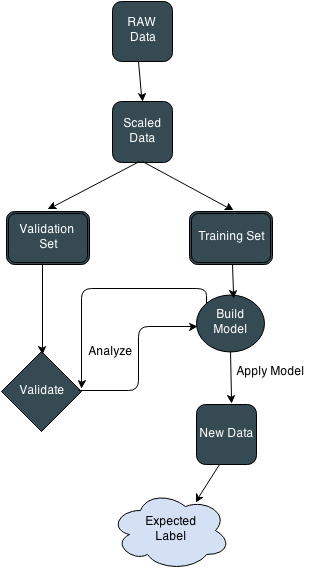
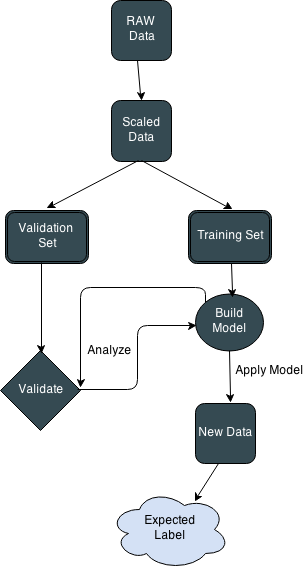
Slight tweak of the layout. 2 weird spacing spots remain. This is caused by figures with the [H] command. This states that figures are supposed to be placed exactly at that location in the text. This can disrupt Latex normal spacing.

Changed region(s): [[0.0, 0.0, 1.0, 1.0]]

diff --git a/Sections/5.supervised-learning.tex b/Sections/5.supervised-learning.tex
@@ -1,14 +1,16 @@
 Machine learning corresponds to the study and construction of systems that can learn from data. These systems can be useful when typical rule based programs that follow explicit instructions do not give good performance. Their ability to learn makes them popular in the field of artificial intelligence and pattern recognition. Machine learning can take several forms. In this paper, we look specifically at classifiers within the field of supervised learning. In supervised learning the system is trained or `taught' using input data that is known to belong to a certain class.\\ 
 %A mapping between the inputs and outputs is inferred from the training data which can be used to classify unseen data. \cite{cord2008machine}
 
-For the purpose of understanding how supervised learning works, consider a supervised learning model that is shown in fig \ref{fig:SL}. The first step is to normalize raw data and prepare data for the training set and validation set. Next data is randomly allocated to these two sets (usually $60$\% for the training set and the rest for validation set). The training set is used by classifier to learn how to classify the data. The training data will be fed to the algorithm in order to learn from training data so that it can train or build a model that can predict unseen data. When the model is built, it is validated using the validation set. It is important in this stage to use data that are not used by the model before, which is why in the second step of figure \ref{fig:SL} the data is split into two. If the validation results in an error rate larger than the desired error, the model is tweaked and we adjust the parameters. Since the built model has already seen the training data, and has memorized the answer, is not trustworthy anymore. If we continue training on that data, the model will try to memorize the classes of the data points specifically instead of learning to classify a type of data. This will make generalization property of the model become progressively worse and is known as over fitting or over training \cite{hawkins2004problem} problem in machine learning. However, depending on the type of a classifier, there are techniques to avoid over fitting. For example a method \cite{Piotrowski201397} has been proposed to solve over fitting in neural network training. Once a model shows consistency, it can be used to predict and label unknown data. \\  
- 
 \begin{figure}[H]
 \centering
-    \includegraphics[width=38mm,scale=0.3]{./img/SL.png}
+    \includegraphics[width=38mm,scale=0.1]{./img/SL.png}
     \caption{\footnotesize{An overview of Supervised learning model that divides scaled data into two sets in order to build a model and predict unseen data }}
     \label{fig:SL}
 \end{figure}
+
+For the purpose of understanding how supervised learning works, consider a supervised learning model that is shown in fig \ref{fig:SL}. The first step is to normalize raw data and prepare data for the training set and validation set. Next data is randomly allocated to these two sets (usually $60$\% for the training set and the rest for validation set). The training set is used by classifier to learn how to classify the data. The training data will be fed to the algorithm in order to learn from training data so that it can train or build a model that can predict unseen data. When the model is built, it is validated using the validation set. It is important in this stage to use data that are not used by the model before, which is why in the second step of figure \ref{fig:SL} the data is split into two. If the validation results in an error rate larger than the desired error, the model is tweaked and we adjust the parameters. Since the built model has already seen the training data, and has memorized the answer, is not trustworthy anymore. If we continue training on that data, the model will try to memorize the classes of the data points specifically instead of learning to classify a type of data. This will make generalization property of the model become progressively worse and is known as over fitting or over training \cite{hawkins2004problem} problem in machine learning. However, depending on the type of a classifier, there are techniques to avoid over fitting. For example a method \cite{Piotrowski201397} has been proposed to solve over fitting in neural network training. Once a model shows consistency, it can be used to predict and label unknown data. \\  
+ 
+
 
 %In unsupervised learning, no associated label, which is the desired output for a set of inputs, is given to the learning algorithm. The class belonging to each instance in the dataset is unknown and there is no reward when the classifier picks the right class. This technique is therefore more often used when trying to discover hidden classes in new datasets \cite{maglogiannis2007emerging}.
 

diff --git a/Sections/3.preprocessing.tex b/Sections/3.preprocessing.tex
@@ -1,10 +1,12 @@
 Unfortunately, the SAR image that is created is not always clear or useful. To assess and increase the clarity and usefulness of the image, preprocessing is done. An overview of the process is presented in figure \ref{fig:overview}.
+
 \begin{figure}[H]
 	\centering
-    \includegraphics[width=50mm,scale=0.3]{./img/preprocessing_diagram.png}
+    \includegraphics[width=0.3\textwidth]{./img/preprocessing_diagram.png}
     \caption{\footnotesize{Overview of the preprocessing steps \cite{Solberg200745}}}
     \label{fig:overview}
 \end{figure}
+
 First, there is a general quality assessment. If the image is blurred in general, it will be impossible to get any information out of it.
 Afterwards, several preprocessing steps are executed to improve the contrast between dark spots and the water surrounding them, as well as flag certain dark spots to be ignored. 
 It is important that experts look at noise removal. One of the most common versions of noise is speckle noise. Speckle noise is caused naturally by a disruption in the phase of radio waves. Radio waves leave the sensor all in the same phase. Once they interact with an object, they scatter and are out of phase with each other. If they interact with each other, the result will be a darker or lighter pixel than it should (e.g. oil will be lighter, water will be darker). Multi-look processing and spatial filtering are examples of techniques that can be done to reduce speckle noise \cite{simard1998analysis}.
@@ -14,7 +16,3 @@ Another possibility is that dark spots are caused by algae or seaweed infestatio
 
 These preprocessing steps will make classification easier, but is still a difficult task. In some cases, even a human expert cannot tell the difference \cite{Keramitsoglou2006640}. Through image segmentation, all dark spots are taken into isolation and the values of predefined features are extracted from them. This segmentation can be done manually but there have also been numerous proposals to do this with different algorithms \cite{ma2011sar,fjortoft1998optimal, ye2002wavelet}. Classification can now be performed by using the features as input where the output of the chosen classifier will be the probability of the dark spot being an oil spill or a lookalike. 
 High or low wind areas are also taken into consideration as they change the surface of the water and oil slicks. This can influence the reflection of radio waves and in turn the image \cite{fingas2014review}.
-
-In an automated detection system, a high oil spill probability can lead to a warning message so that it can be further examined by an expert.
-
-

diff --git a/Sections/2.oil-spill-methods.tex b/Sections/2.oil-spill-methods.tex
@@ -4,10 +4,3 @@ The main alternative within radar imaging is Side-Looking Airborne Radar(SLAR), 
 
 SAR images are created through radio waves that are emitted from the SAR device to an area. That area reflects the radio waves. The SAR device measures the time the waves take to travel back  \cite{Doerry:04}. When an ocean is hit by radio waves, those waves are reflected in a certain way. Oil reflects radio waves differently. This difference is the key to identifying oil spills.
 In the image that is drawn from these measurements, water is shown as a grey or lighter area, while a possible oil spill is shown as a dark spot.
-
-
-
-
-
-
-

diff --git a/Sections/4.oil-spill-features.tex b/Sections/4.oil-spill-features.tex
@@ -2,7 +2,7 @@ In order to classify dark spots as either oil spills or lookalikes, features are
 
 \begin{figure}[H]
 	\centering
-    \includegraphics[width=100mm,scale=1]{./img/featurestable.png}
+    \includegraphics[width=0.4\textwidth]{./img/featurestable.png}
     \caption{\footnotesize{The 25 most commonly used features\cite{Topouzelis201268}}}
     \label{fig:featuretable}
 \end{figure}
